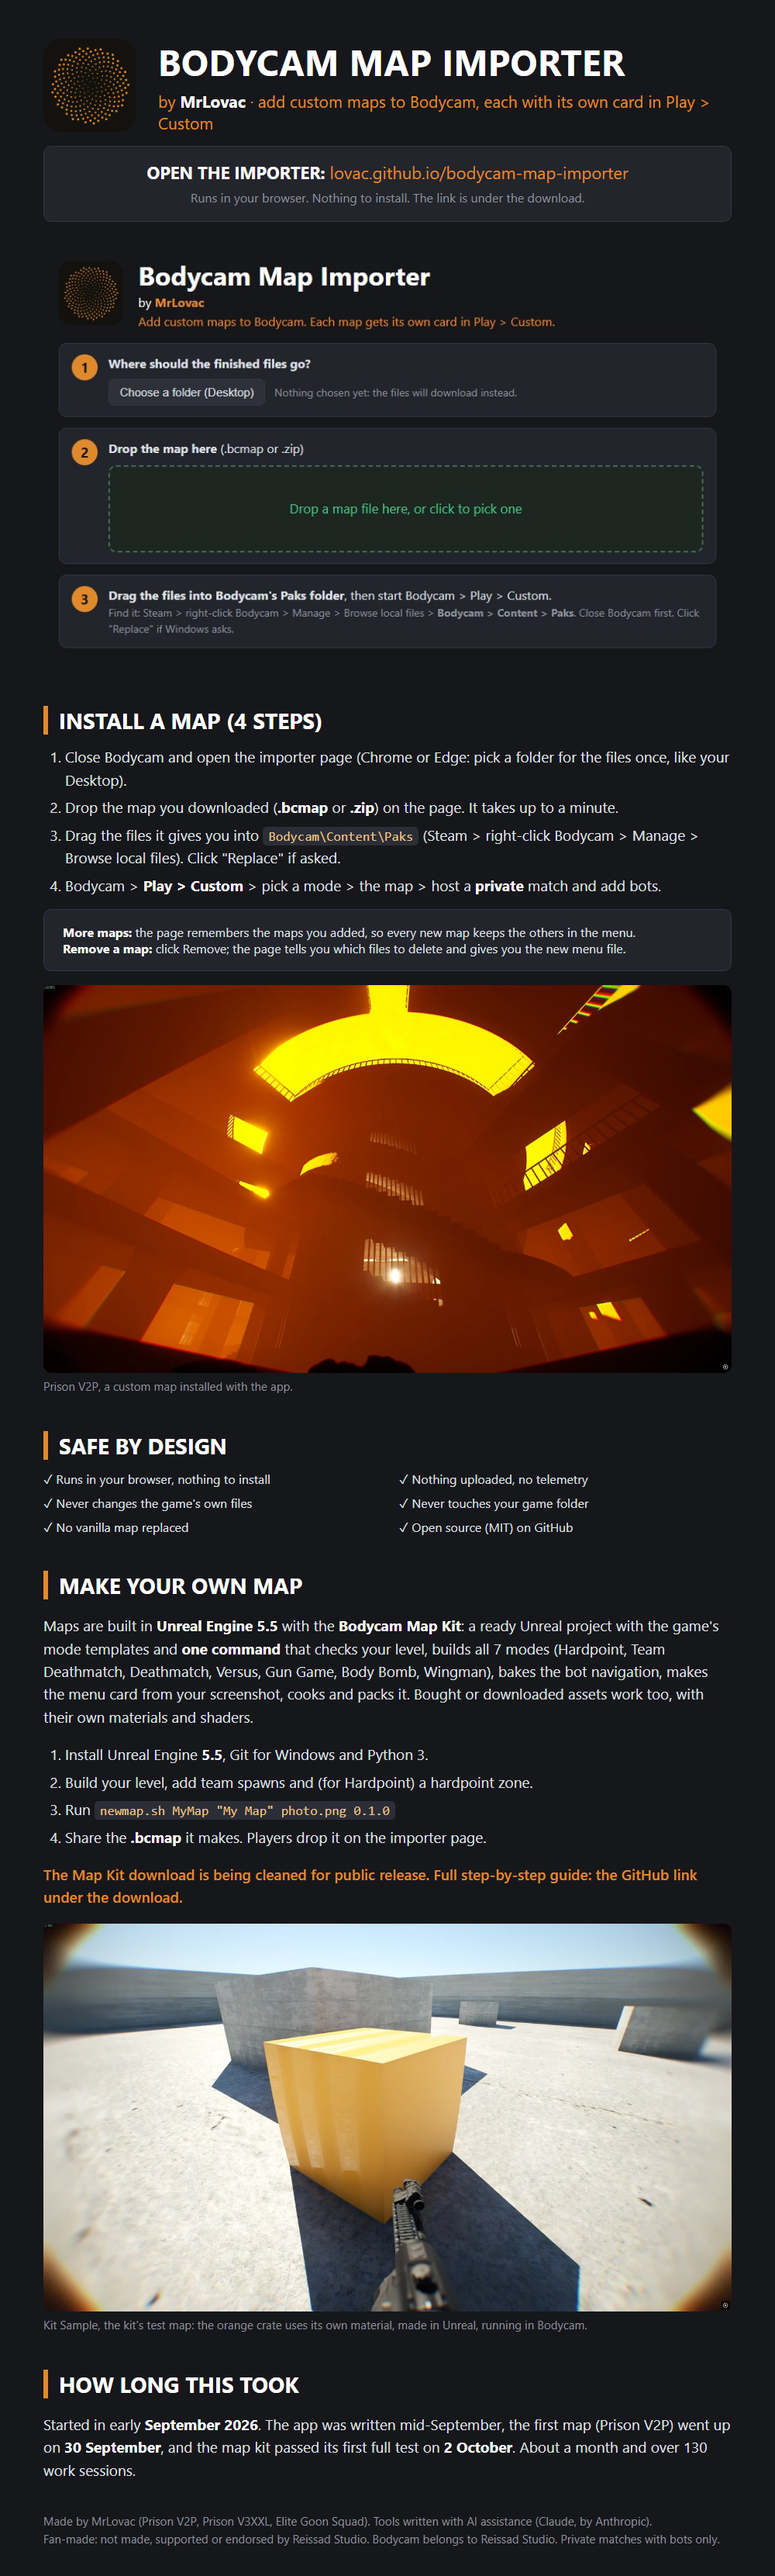
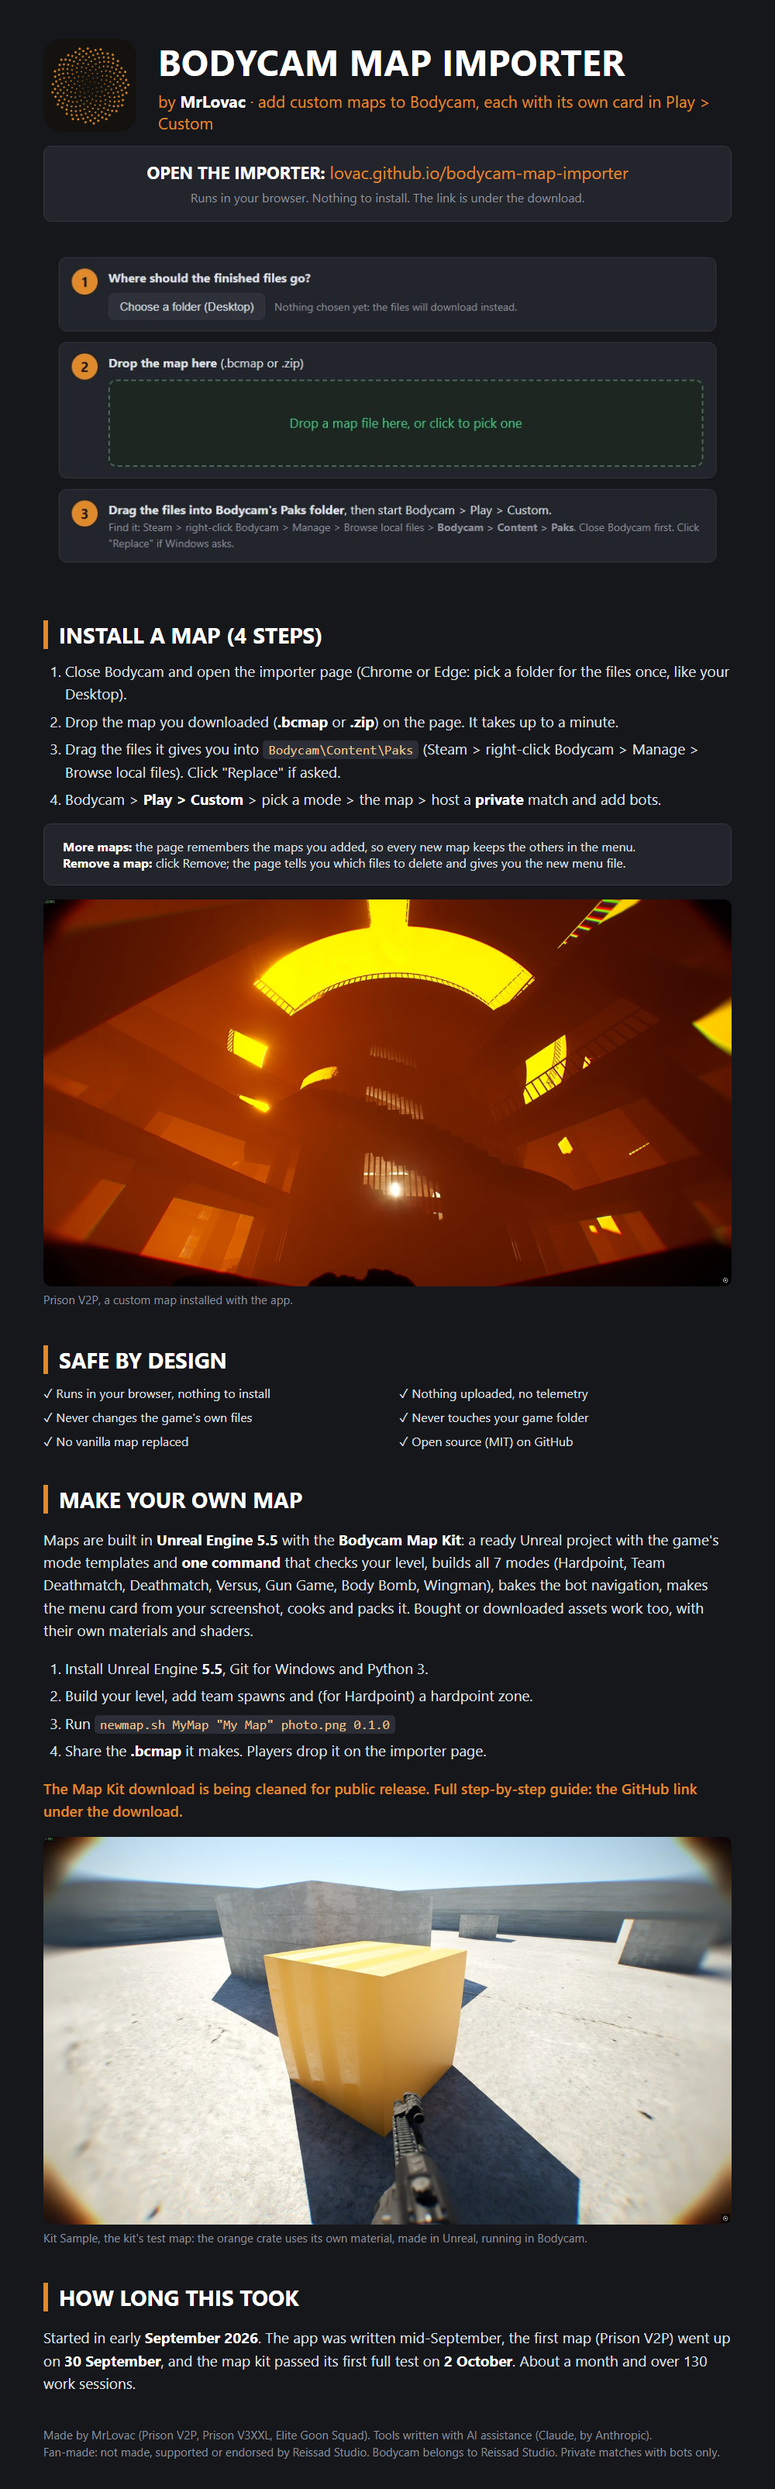
Guide image: page shot without the repeated title and name; thumbnail and gallery images

diff --git a/docs/nexus/web_steps.html b/docs/nexus/web_steps.html
@@ -1,0 +1,13 @@
+<!doctype html>
+<html><head><meta charset="utf-8"><link rel="stylesheet" href="../../Web/wwwroot/css/app.css"></head>
+<body><div id="app">
+<div class="page"><div class="steps"><div class="step"><div class="num">1</div>
+        <div class="body"><b>Where should the finished files go?</b><div class="row"><button class="btn">Choose a folder (Desktop)</button>
+              <span class="dim">Nothing chosen yet: the files will download instead.</span></div></div></div>
+      <div class="step"><div class="num">2</div>
+        <div class="body"><b>Drop the map here</b> (.bcmap or .zip)
+          <div class="drop "><div class="droptext">Drop a map file here, or click to pick one</div></div></div></div>
+      <div class="step"><div class="num">3</div>
+        <div class="body"><b>Drag the files into Bodycam's Paks folder</b>, then start Bodycam &gt; Play &gt; Custom.
+          <div class="dim">Find it: Steam &gt; right-click Bodycam &gt; Manage &gt; Browse local files &gt; <b>Bodycam &gt; Content &gt; Paks</b>. Close Bodycam first. Click "Replace" if Windows asks.</div></div></div></div>
+</div></div></body></html>

diff --git a/docs/nexus/thumb.html b/docs/nexus/thumb.html
@@ -1,0 +1,17 @@
+<!doctype html>
+<html><head><meta charset="utf-8"><style>
+html,body{margin:0;width:1920px;height:1080px;overflow:hidden;font-family:"Segoe UI",Arial,sans-serif}
+body{background:#16171b url("../prison_v2p_in_game.jpg") center/cover no-repeat}
+.shade{position:absolute;inset:0;background:linear-gradient(90deg,rgba(22,23,27,.97) 0%,rgba(22,23,27,.92) 55%,rgba(22,23,27,.35) 100%)}
+.box{position:absolute;left:120px;top:250px;width:1200px}
+img{width:220px;height:220px;border-radius:40px;display:block;margin-bottom:40px}
+h1{margin:0;font-size:118px;line-height:1;color:#fff;font-weight:800;letter-spacing:1px}
+.by{font-size:52px;color:#fff;margin-top:22px}.by b{color:#e08a2c}
+.sub{font-size:40px;color:#c9ccd3;margin-top:30px;line-height:1.35}
+.sub b{color:#e08a2c}
+</style></head><body><div class="shade"></div><div class="box">
+<img src="../logo.png" alt="">
+<h1>BODYCAM MAP<br>IMPORTER</h1>
+<div class="by">by <b>MrLovac</b></div>
+<div class="sub">Custom maps with their own card in Play &gt; Custom.<br><b>Runs in your browser. Nothing to install.</b></div>
+</div></body></html>

diff --git a/docs/nexus/guide.html b/docs/nexus/guide.html
@@ -34,7 +34,7 @@
   <span style="font-size:16px;color:#8d919c">Runs in your browser. Nothing to install. The link is under the download.</span>
 </div>
 
-<img class="shot" src="../web_page.jpg" alt="">
+<img class="shot" src="../web_steps.jpg" alt="">
 
 <h2>INSTALL A MAP (4 STEPS)</h2>
 <ol>
